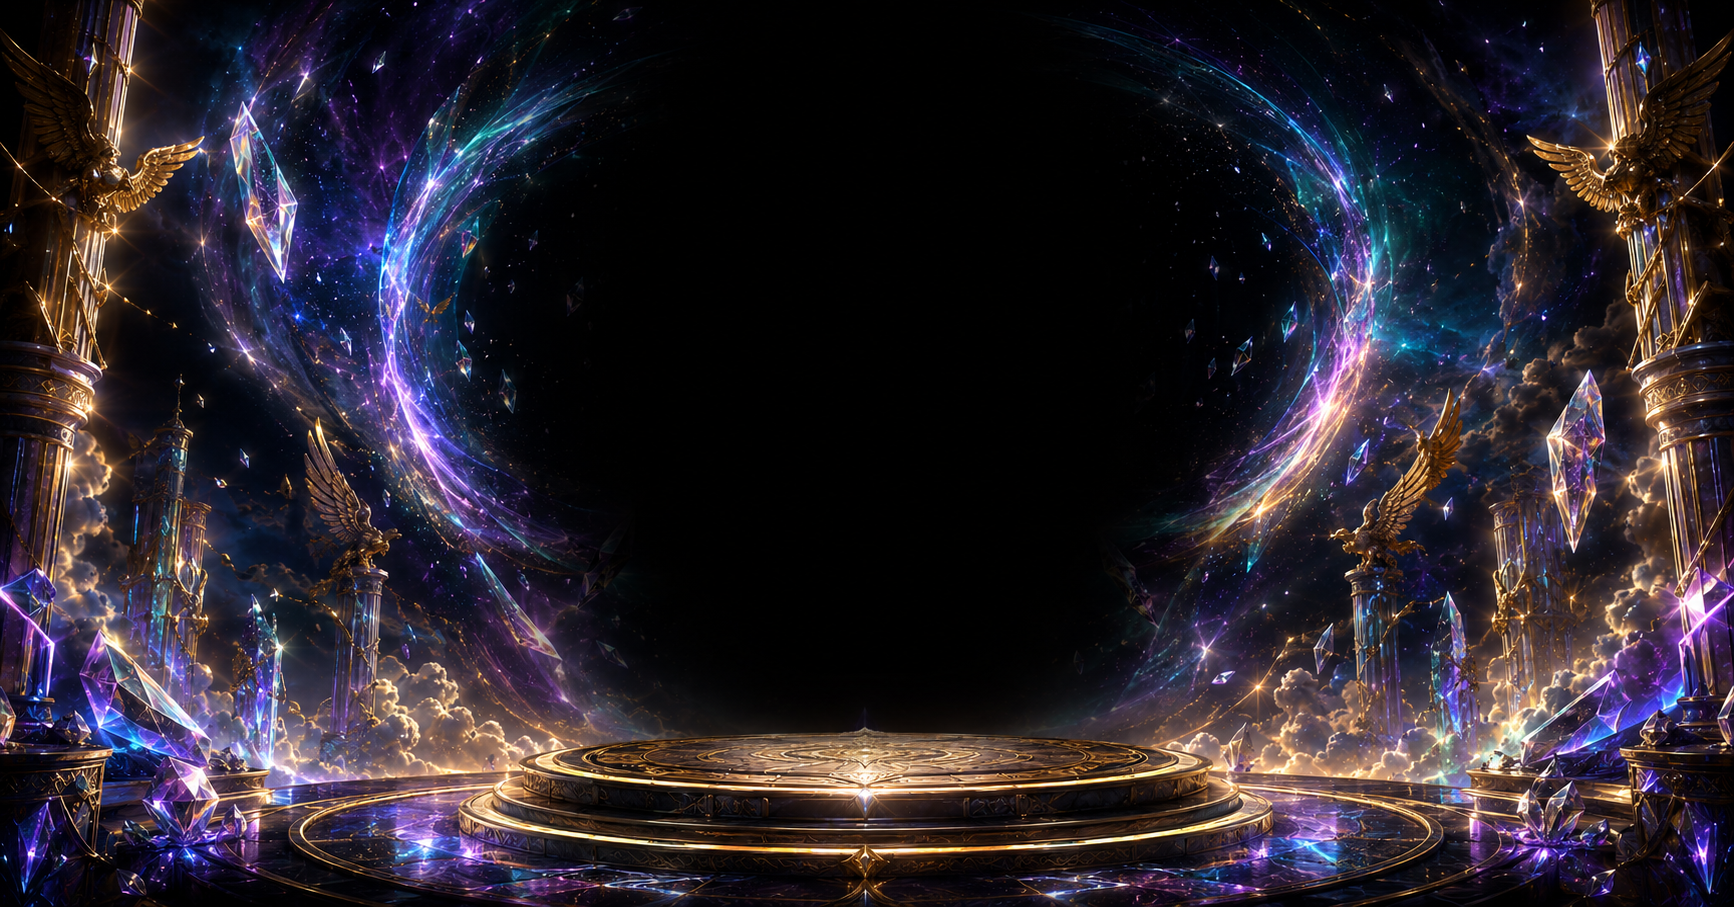
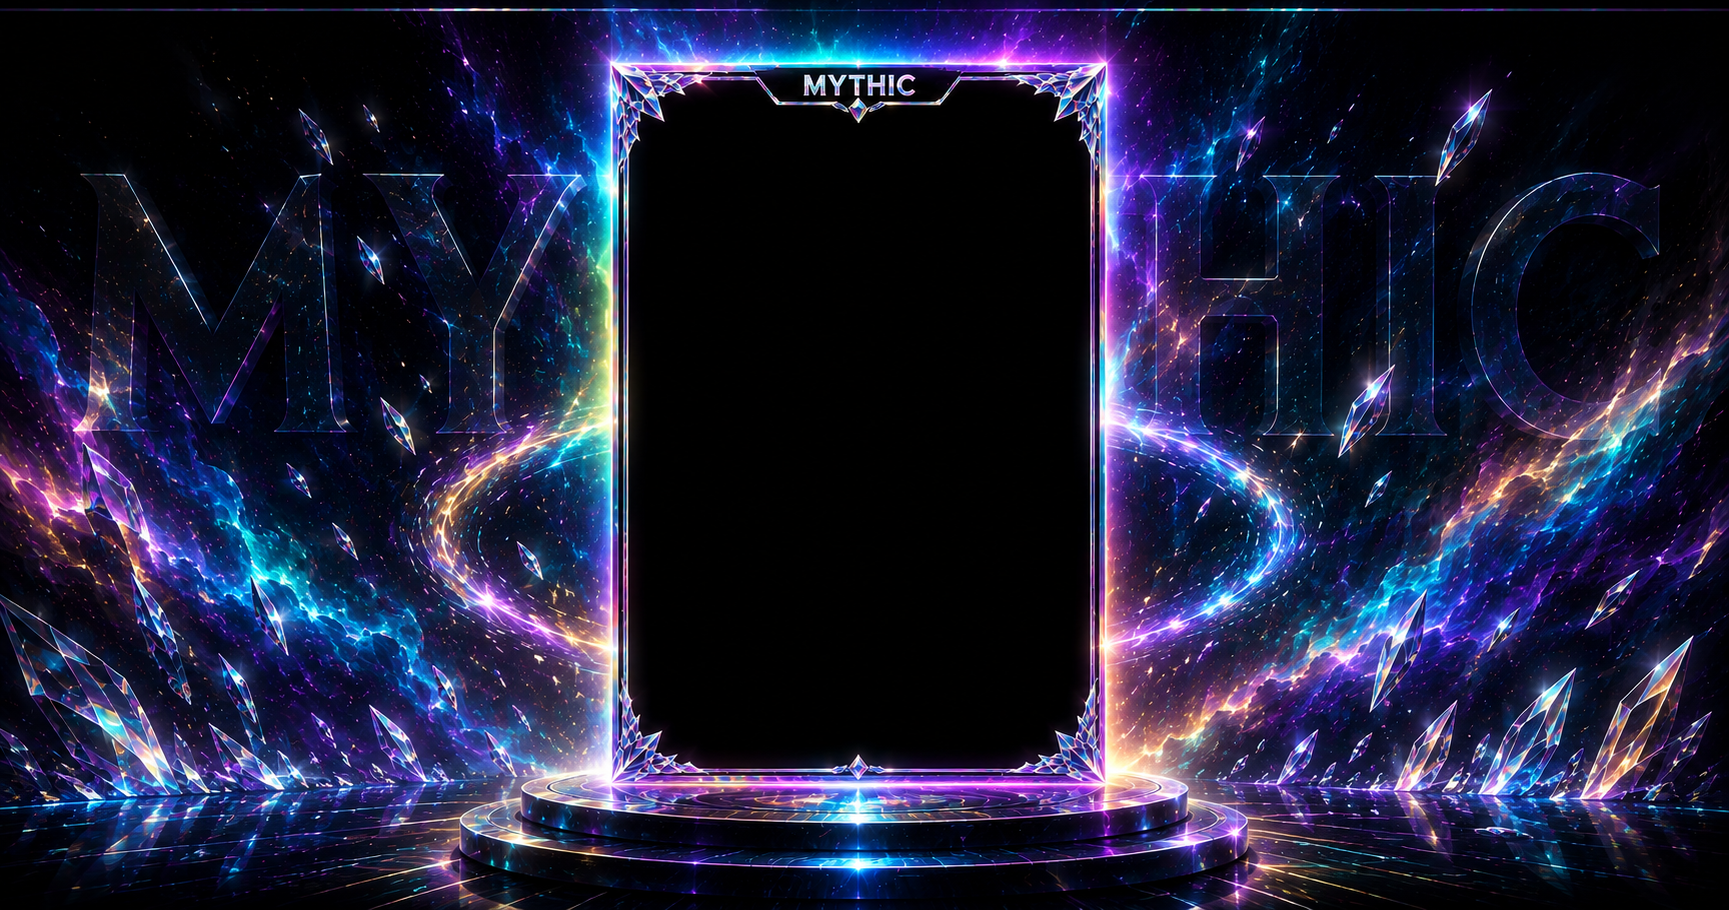
New mythic palette, one sale backdrop per rarity

diff --git a/api/og.js b/api/og.js
@@ -262,9 +262,9 @@ export default async function handler(req) {
      empty space either side. Two controls, one of which appeared broken.
 
      `cw` still overrides, for the case where the box should not match. */
-  const CARD_H2 = q("ch", 700);
+  const CARD_H2 = q("ch", 625);
   const CARD_W = q("cw", Math.round(CARD_H2 * 958 / 1280));
-  const CARD_BOTTOM = q("cb", 750);
+  const CARD_BOTTOM = q("cb", 700);
   /* Buyback prices differ per capsule. Absent, assume the paid one: a
      share image is where the paid capsule gets shown off. */
   const capsule = (url.searchParams.get("cap") || "paid")
@@ -308,13 +308,13 @@ export default async function handler(req) {
      backdrop runs x 620-1172, y 784-860; the plate sits inside its front
      face, narrower than the podium. Wider or higher and it reads as a
      label stuck on top; lower and the canvas cuts it off. */
-  const PLATE_W = q("pw", 570);
-  const PLATE_H = q("ph", 110);
+  const PLATE_W = q("pw", 525);
+  const PLATE_H = q("ph", 114);
   const PLATE_TOP = q("pt", 750);
   const PLATE_R = q("pr", 18);
   const FS_LABEL = q("fl", 22);
-  const FS_VALUE = q("fv", 35);
-  const FS_UNIT  = q("fu", 35);
+  const FS_VALUE = q("fv", 33);
+  const FS_UNIT  = q("fu", 22);
 
   const rc = rgb(rgbc);
   /* MYTHIC is a rainbow on the card and on the bar. One colour cannot
